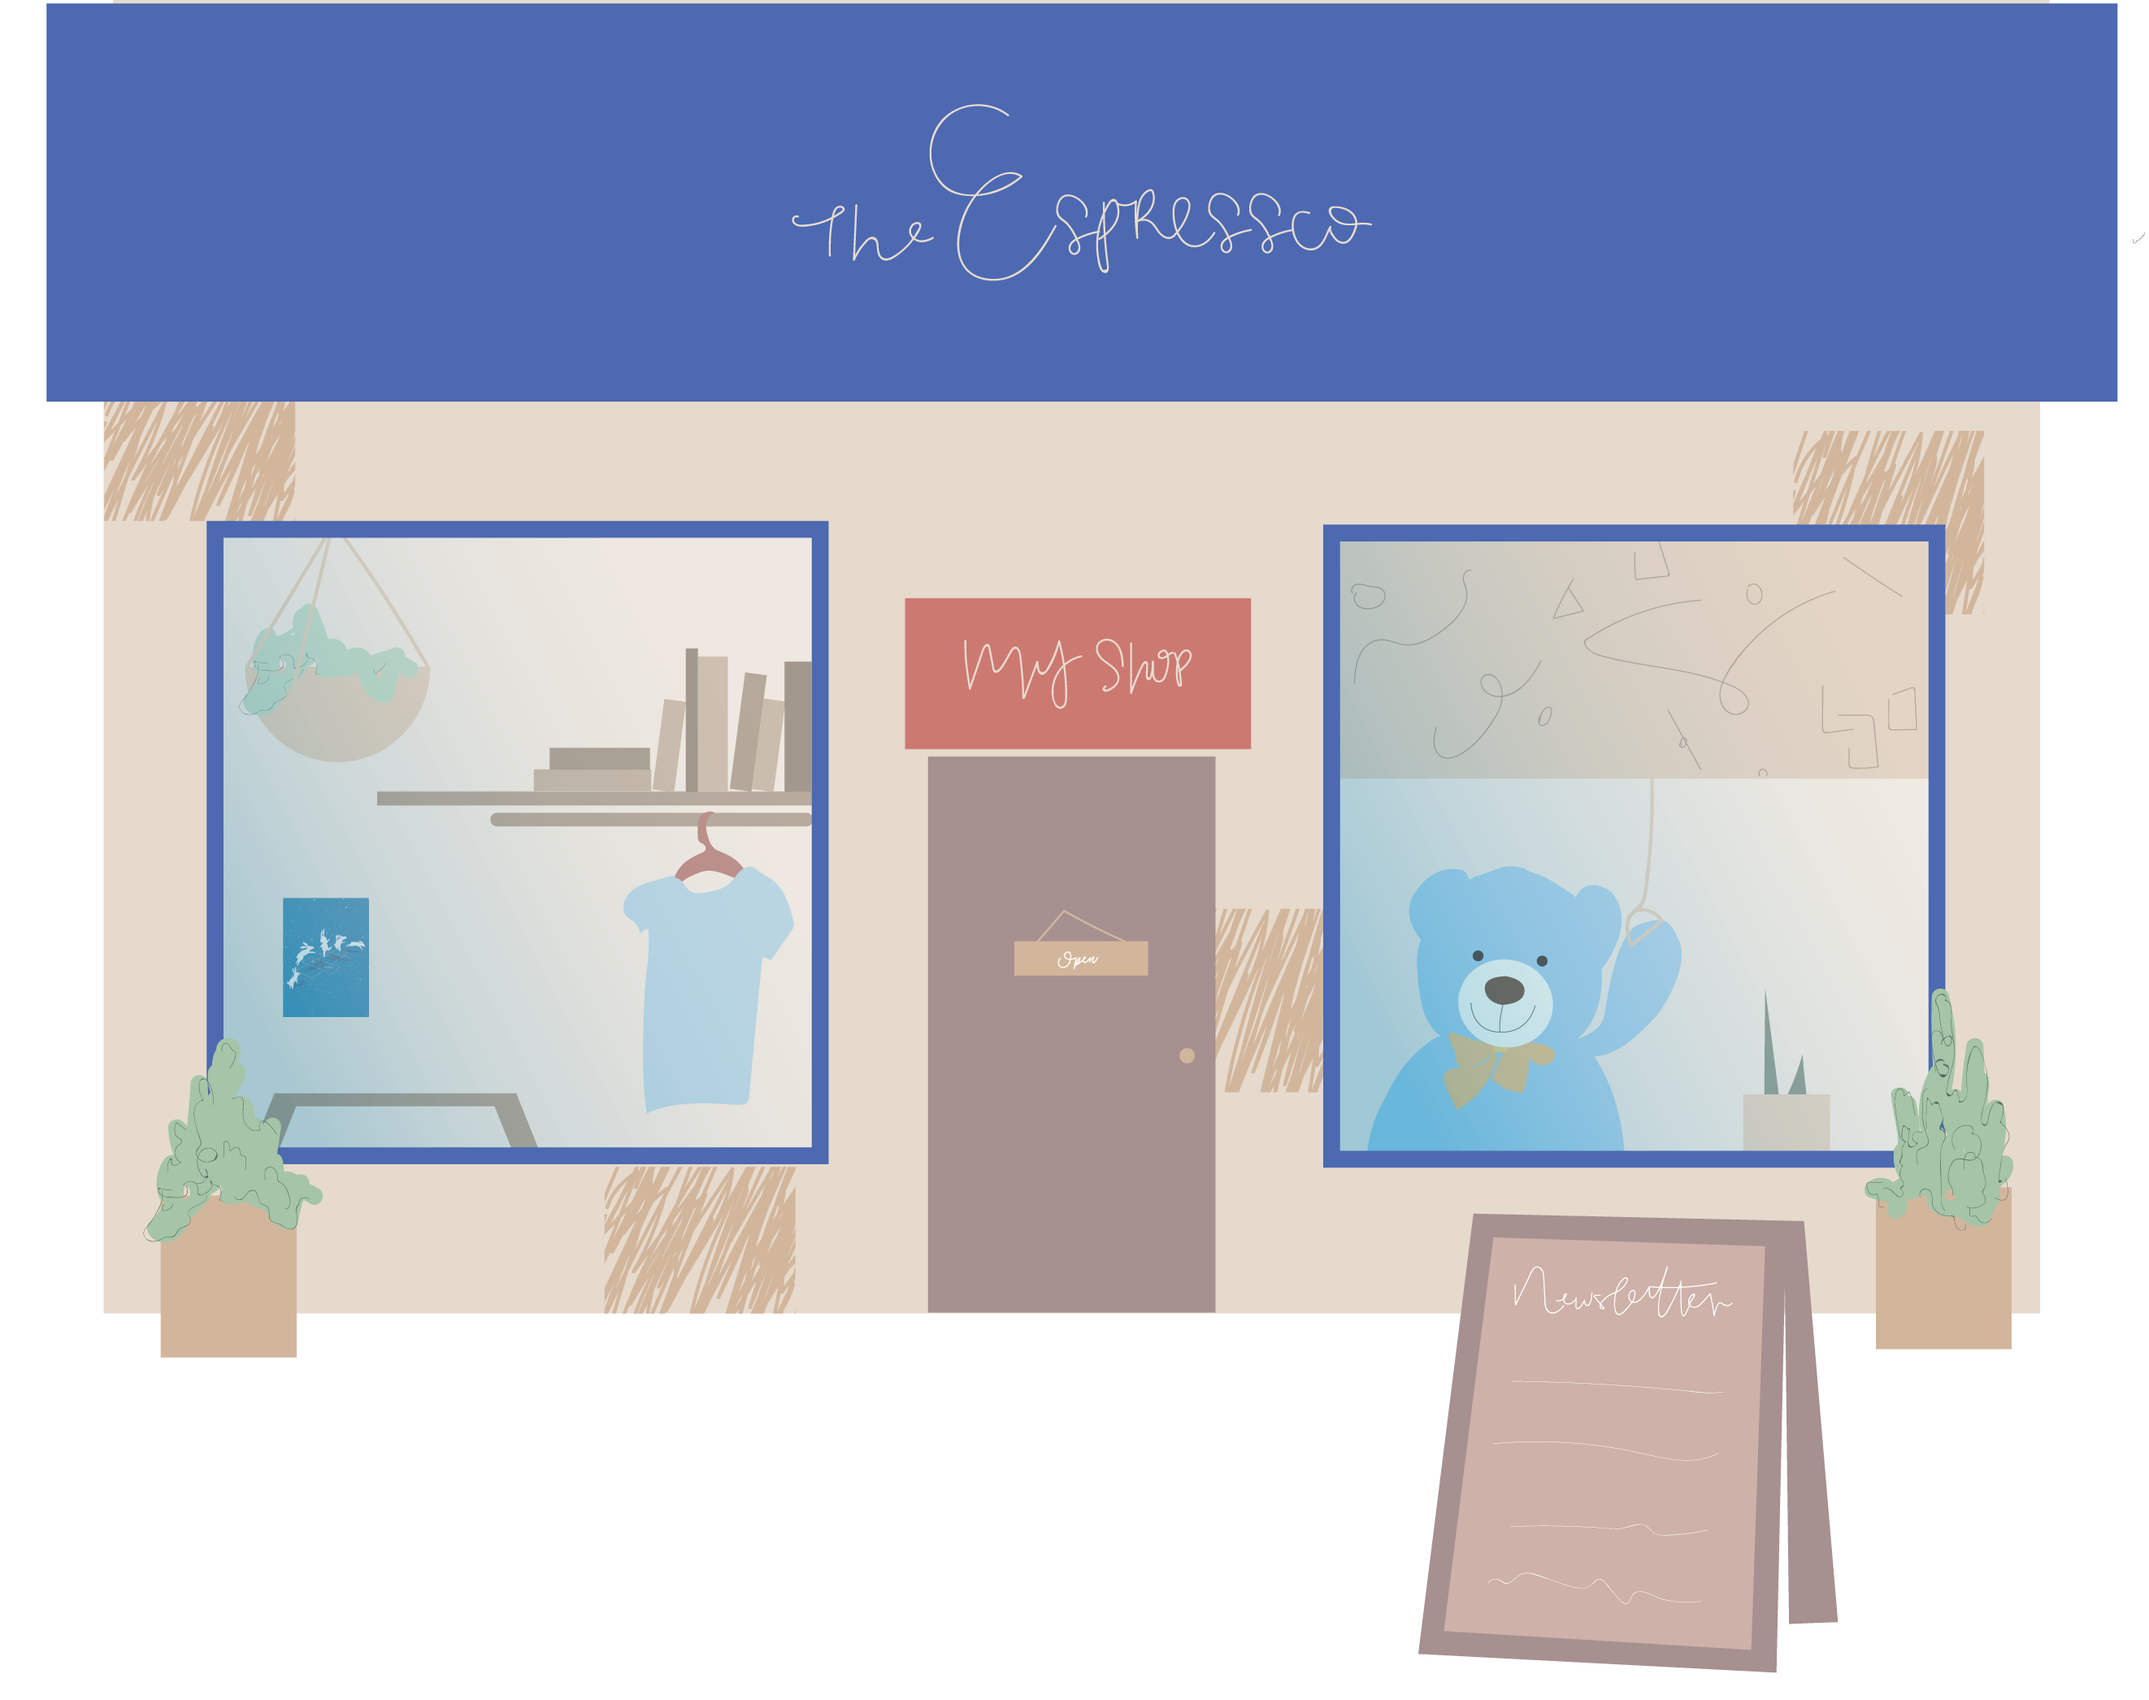
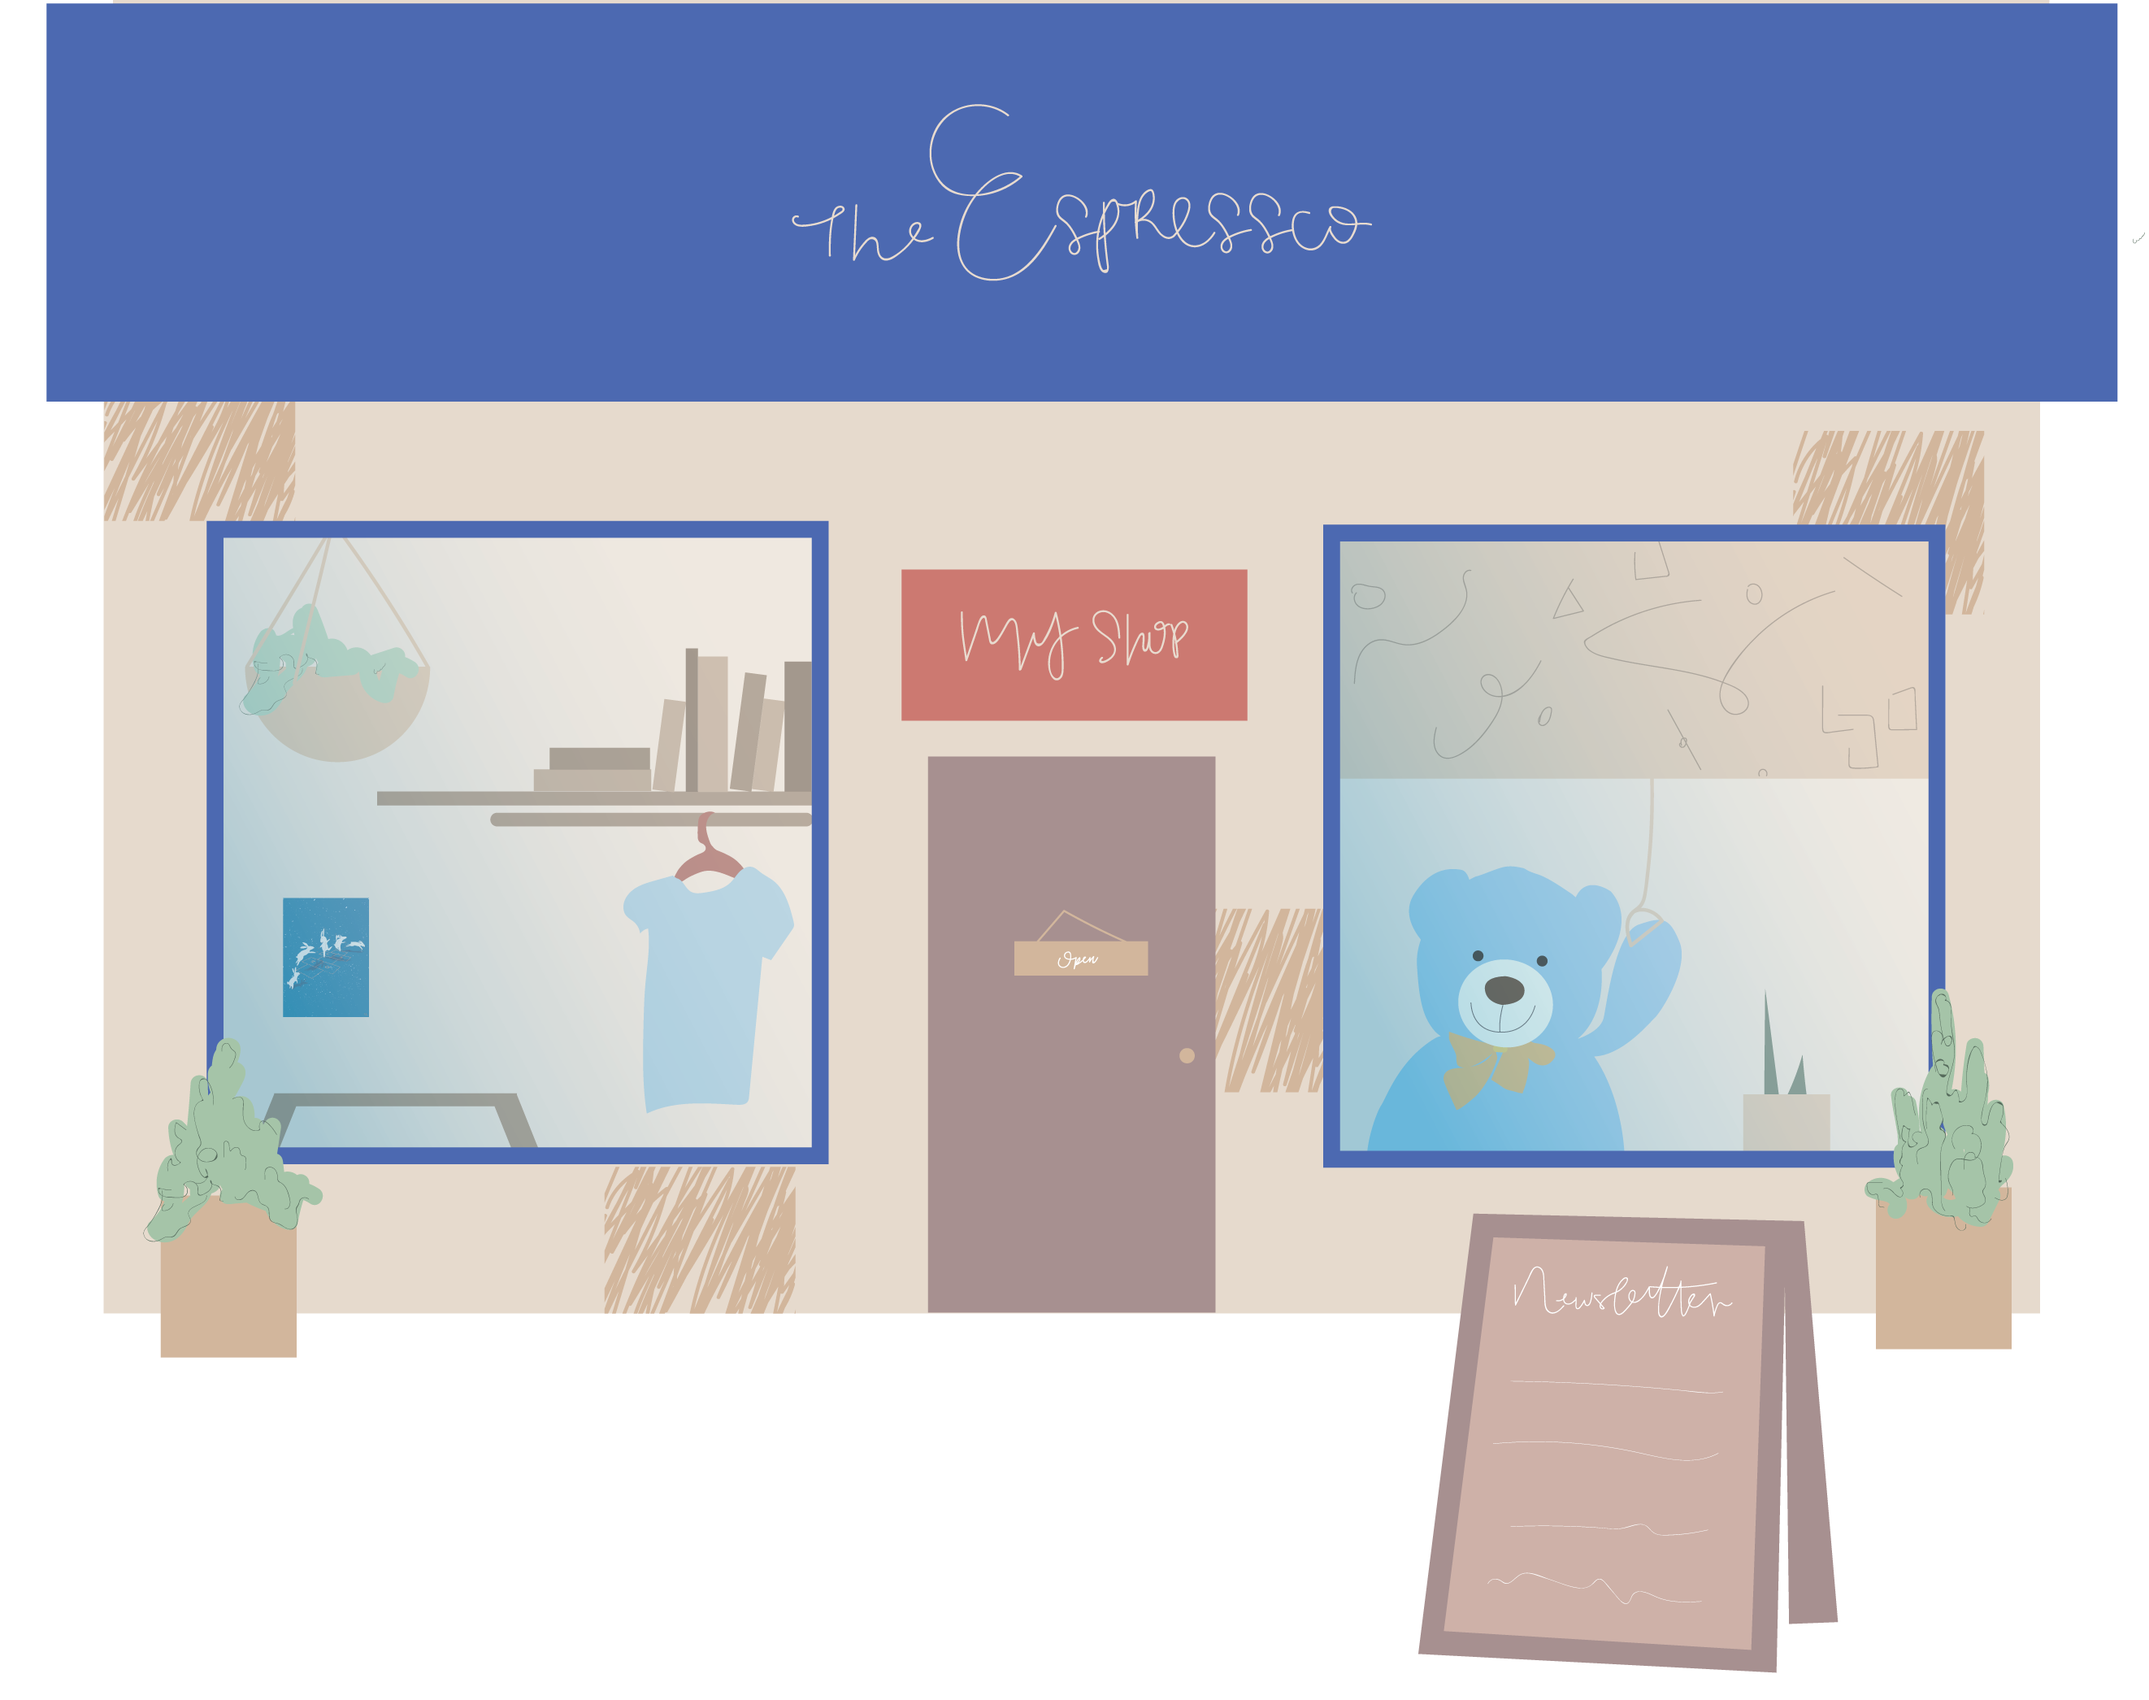
fixed heights and added big div

Changed region(s): [[0.4032, 0.3109, 0.5893, 0.4663]]

diff --git a/src/app/app.component.html b/src/app/app.component.html
@@ -1,85 +1,76 @@
-<div style="display: flex; justify-content: center; align-items: center; height: 100vh;">
-  <img src="assets/espressco.png" alt="Home" style="width: auto; height: 100%; max-width: 100%;">
-</div>
+<div class = "home" style="position: absolute; height: 100%; top: 50%; left: 50%; transform: translate(-50%, -50%);">
+  <img src="assets/espressco.png" alt="Home" style="height: 100%;">
 
-<div>
   <a href="https://www.etsy.com/shop/theespressco" target="_blank" style="text-decoration: none;">
   <img 
     src="assets/myshop.png" 
     alt="My Shop" 
     style="
       position: absolute; 
-      top: 40%; 
+      top: 38%; 
       left: 50%; 
       transform: translate(-50%, -50%); 
       z-index: 10; 
       height: 11%; 
-      width: auto; 
-      opacity: 0; 
+      opacity: 1; 
       transition: opacity 0.3s;
       cursor: pointer;"
     onmouseover="this.style.opacity='1'" 
     onmouseout="this.style.opacity='0'"
   />
   </a>
-</div>
 
-<div>
   <a href="https://www.etsy.com/shop/theespressco" target="_blank" style="text-decoration: none;">
   <img 
     src="assets/dooropen.png" 
     alt="Door Open" 
     style="
       position: absolute; 
-      top: 63.25%; 
+      top: 62%; 
       left: 50%; 
       transform: translate(-50%, -50%); 
       z-index: 10; 
-      height: 240px; 
-      width: auto; 
-      opacity: 0; 
+      height: 36%; 
+      opacity: 1; 
       transition: opacity 0.3s;
       cursor: pointer;"
     onmouseover="this.style.opacity='1'" 
     onmouseout="this.style.opacity='0'"
   />
   </a>
-</div>
 
-<div>
+
   <a href="https://theespressco.mailerpage.io/my-work/no-1-new-years">
   <img 
     src="assets/hopscotch.png" 
     alt="Bunnies Playing Hopscotch" 
     style="
       position: absolute; 
-      top: 58%; 
-      left: 29.5%; 
+      top: 56%; 
+      left: 15%; 
       transform: translate(-50%, -50%); 
       z-index: 10; 
-      height: 75px; 
-      width: auto; 
-      opacity: 0; 
+      height: 11%; 
+      opacity: 1; 
       transition: opacity 0.3s;
       cursor: pointer;"
     onmouseover="this.style.opacity='1'" 
     onmouseout="this.style.opacity='0'"
   />
   </a>
-</div>
+
 
 
 <a href="https://theespressco.mailerpage.io/contact" target="_blank" style="text-decoration: none;">
 <img src="assets/sign.png" alt="Sign" 
 style="
       position: absolute; 
-      top: 87%; 
-      left: 66%; 
+      top: 86%; 
+      left: 77%; 
       transform: translate(-50%, -50%); 
       z-index: 10; 
-      height: 225px; 
-      width: auto;
-      opacity: 0; 
+      height: 34%; 
+      opacity: 1; 
       transition: opacity 0.3s;
       cursor: pointer;"
     onmouseover="this.style.opacity='1'" 
@@ -91,16 +82,16 @@ style="
 <img src="assets/bluebear.gif" alt="Blue Bear" 
 style="
       position: absolute; 
-      top: 58%; 
-      left: 63%; 
+      top: 57%; 
+      left: 72%; 
       transform: translate(-50%, -50%); 
       z-index: 10; 
-      height: 145px; 
-      width: auto;      
-      opacity: 0; 
+      height: 21%; 
+      opacity: 1; 
       transition: opacity 0.3s;
       cursor: pointer;"
     onmouseover="this.style.opacity='1'" 
     onmouseout="this.style.opacity='0'"/>
 </a>
+</div>
 <router-outlet />
